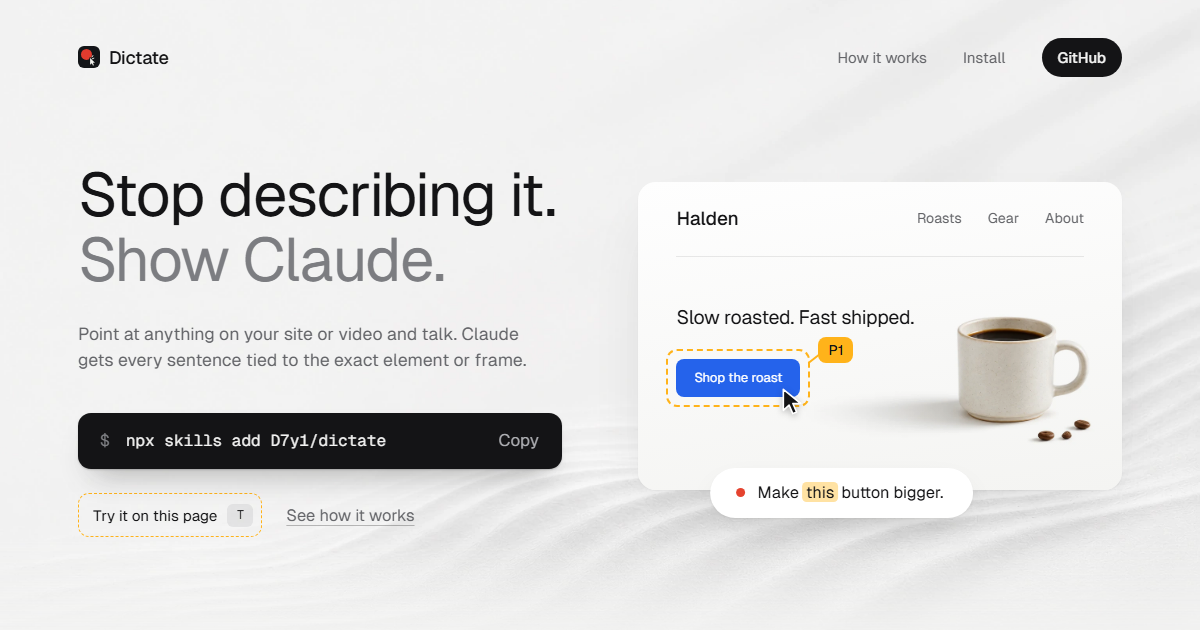
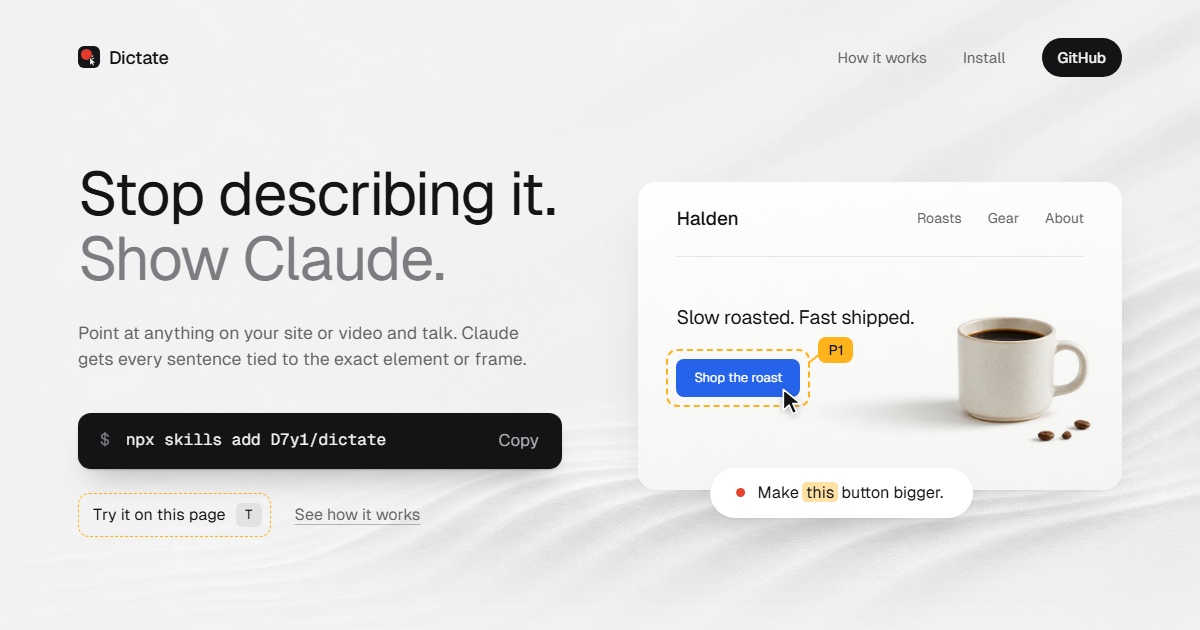
Polish the landing page before launch
Impeccable's final pass, with no new features.

- The wire measures the settled layout, so it lands on its line after a
  tab change.
- The 404 links from /dictate/ instead of a base tag, which sent its skip
  link to the home page.
- A refused clipboard selects the command and says how to copy it, without
  overflowing the bar on a phone.
- The Try button and tabs have their space before first paint, so a slow
  connection doesn't move the hero.
- The box's tag says what's true: "this" while a note is open, and no
  second tag on something already pinned.
- The mic reads results safely and doesn't call silence an error.
- Matching type in the hero row, larger touch targets, pressed states, and
  leftover CSS removed.

diff --git a/docs/assets/site.css b/docs/assets/site.css
@@ -68,7 +68,6 @@ h1 span, h2 span { display: block; color: var(--ink-3); }
 h1 { font-size: clamp(2.5rem, 5.1vw, 4.75rem); line-height: 1.06; letter-spacing: -0.025em; }
 h2 { font-size: clamp(2.125rem, 1.35rem + 2.8vw, 3.5rem); line-height: 1.08; letter-spacing: -0.032em; }
 h3 { font-size: 18px; font-weight: 500; line-height: 1.3; letter-spacing: -0.012em; }
-h3 code, h3 kbd { padding: 0.1em 0.36em; background: rgb(20 20 22 / 0.06); font-size: 0.9em; font-weight: 500; letter-spacing: 0; border-radius: 6px; }
 
 /* --- Navigation --- */
 
@@ -82,7 +81,7 @@ h3 code, h3 kbd { padding: 0.1em 0.36em; background: rgb(20 20 22 / 0.06); font-
 }
 .nav.scrolled { background: rgb(244 244 243 / 0.82); -webkit-backdrop-filter: saturate(1.4) blur(14px); backdrop-filter: saturate(1.4) blur(14px); border-bottom-color: var(--line); }
 .nav nav { display: flex; align-items: center; gap: clamp(16px, 3vw, 44px); }
-.nav nav a { color: var(--ink-2); text-decoration: none; transition: color 0.2s; }
+.nav nav a { padding-block: 10px; color: var(--ink-2); text-decoration: none; transition: color 0.2s; }
 .nav nav a:hover { color: var(--ink); }
 .nav nav a.pill { padding: 8px 16px; background: var(--ink); color: var(--ground); border-radius: 999px; font-weight: 500; transition: background-color 0.2s; }
 .nav nav a.pill:hover { background: #2c2c30; color: var(--ground); }
@@ -101,18 +100,20 @@ h3 code, h3 kbd { padding: 0.1em 0.36em; background: rgb(20 20 22 / 0.06); font-
 
 .pitch > p { max-width: 27em; margin-top: 28px; color: var(--ink-2); font-size: clamp(17px, 1.46vw, 21px); line-height: 1.5; text-wrap: pretty; }
 .pitch .install { margin-top: 40px; }
-.more-row { display: flex; flex-wrap: wrap; align-items: center; gap: 12px clamp(18px, 2vw, 28px); margin-top: 24px; transition: opacity 0.2s; }
+.more-row { display: flex; flex-wrap: wrap; align-items: center; gap: 4px clamp(18px, 2vw, 28px); margin-top: 24px; font-size: clamp(16px, 1.24vw, 18px); transition: opacity 0.2s; }
 .just-copied .more-row { opacity: 0; pointer-events: none; }
-.try { display: inline-flex; align-items: center; gap: 10px; min-height: 44px; padding: 6px 8px 6px 14px; border: 1.5px dashed var(--amber); border-radius: 11px; font-size: clamp(15px, 1.2vw, 18px); transition: background-color 0.2s; }
-.try[hidden] { display: none; }
+/* It only works with the script, and the page says so before first paint. */
+.try { display: none; align-items: center; gap: 10px; min-height: 44px; padding: 6px 8px 6px 14px; border: 1.5px dashed var(--amber); border-radius: 11px; transition: background-color 0.2s; }
+.js .try { display: inline-flex; }
 .try:hover { background: rgb(255 255 255 / 0.6); }
 .try[aria-pressed="true"] { background: var(--amber-soft); }
 .try kbd { min-width: 26px; padding: 2px 7px; background: rgb(20 20 22 / 0.07); font-size: 0.82em; text-align: center; border-radius: 6px; }
-.more { display: inline-block; color: var(--ink-2); font-size: clamp(16px, 1.36vw, 20px); text-decoration: underline; text-decoration-color: rgb(20 20 22 / 0.28); transition: color 0.2s, text-decoration-color 0.2s; }
+.more { display: inline-block; padding-block: 10px; color: var(--ink-2); text-decoration: underline; text-decoration-color: rgb(20 20 22 / 0.28); transition: color 0.2s, text-decoration-color 0.2s; }
 .more:hover { color: var(--ink); text-decoration-color: currentColor; }
 
 /* The install bar */
 .install {
+  position: relative;
   display: flex; align-items: center; justify-content: space-between; gap: 12px;
   width: 100%; max-width: 568px; height: clamp(56px, 4.5vw, 67px); padding: 0 10px 0 22px;
   background: var(--ink); color: var(--ground); border-radius: 13px;
@@ -127,7 +128,6 @@ h3 code, h3 kbd { padding: 0.1em 0.36em; background: rgb(20 20 22 / 0.06); font-
 .install button.copied { color: #fff; }
 
 /* What to do after Copy, in the space under the bar. */
-.install { position: relative; }
 .after-copy { position: absolute; left: 2px; top: calc(100% + 14px); color: var(--ink); font-size: 15px; line-height: 1.35; opacity: 0; transition: opacity 0.2s; pointer-events: none; }
 .after-copy.on { opacity: 1; transition-duration: 0.3s; }
 .after-copy code { padding: 0.08em 0.34em; background: rgb(20 20 22 / 0.07); font-size: 0.92em; border-radius: 5px; white-space: nowrap; }
@@ -234,6 +234,8 @@ h3 code, h3 kbd { padding: 0.1em 0.36em; background: rgb(20 20 22 / 0.06); font-
 
 .tabs { position: relative; display: flex; width: fit-content; margin-top: clamp(32px, 3.6vw, 48px); padding: 4px; background: rgb(20 20 22 / 0.055); border-radius: 999px; }
 .tabs[hidden] { display: none; }
+.js .tabs[hidden] { display: flex; }
+.js:not(.ready) .split:not(#panel-web) { display: none; }
 .tabs button { position: relative; padding: 9px 20px; color: var(--ink-2); font-size: 14.5px; border-radius: 999px; transition: color 0.2s; }
 .tabs button:hover, .tabs button[aria-selected="true"] { color: var(--ink); }
 .tab-thumb { position: absolute; left: 0; top: 4px; bottom: 4px; background: var(--surface); border-radius: 999px; box-shadow: 0 1px 2px rgb(20 20 22 / 0.08), 0 4px 10px -4px rgb(20 20 22 / 0.14); }
@@ -266,10 +268,9 @@ h3 code, h3 kbd { padding: 0.1em 0.36em; background: rgb(20 20 22 / 0.06); font-
 .timed.playing .w.said { opacity: 1; }
 .resolved { margin-top: clamp(24px, 3vw, 36px); }
 .resolved li + li { margin-top: 10px; }
-.resolved li { padding-left: 0; text-indent: 0; }
+.resolved li { padding-left: 0; text-indent: 0; transition: opacity 0.35s var(--ease), transform 0.35s var(--ease); }
 .resolved li::before { content: none; }
 .resolved.playing li { opacity: 0; transform: translateY(4px); }
-.resolved li { transition: opacity 0.35s var(--ease), transform 0.35s var(--ease); }
 .resolved.playing li.said { opacity: 1; transform: none; }
 .replay { padding: 0; color: var(--ink); text-decoration: underline; text-decoration-color: rgb(20 20 22 / 0.28); text-decoration-thickness: 1px; text-underline-offset: 4px; transition: text-decoration-color 0.2s; }
 .replay:hover { text-decoration-color: currentColor; }
@@ -310,7 +311,7 @@ html:not(.trying) .tp-box, html:not(.trying) .tp-pin { display: none; }
 .tp {
   position: fixed; right: clamp(12px, 2vw, 28px); bottom: calc(clamp(12px, 2vw, 28px) + var(--tp-lift, 0px)); z-index: 40;
   display: flex; flex-direction: column;
-  width: min(460px, 100vw - 24px); max-height: min(72svh, 620px);
+  width: min(460px, 100vw - 24px); max-height: var(--tp-room, min(72svh, 620px));
   background: var(--surface); border-radius: 18px;
   box-shadow: 0 0 0 1px rgb(20 20 22 / 0.05), 0 1px 2px rgb(20 20 22 / 0.05), 0 30px 60px -18px rgb(20 20 22 / 0.3);
   transition: opacity 0.16s, transform 0.16s;
@@ -324,9 +325,8 @@ html:not(.trying) .tp-box, html:not(.trying) .tp-pin { display: none; }
 .tp-hint { flex: 1; min-width: 0; font-size: 15px; line-height: 1.35; }
 .tp-close { display: grid; place-items: center; flex: none; width: 40px; height: 40px; color: var(--ink-2); border-radius: 10px; transition: color 0.2s, background-color 0.2s; }
 .tp-close:hover { color: var(--ink); background: rgb(20 20 22 / 0.05); }
-.tp-report { flex: 1 1 auto; min-height: 0; padding: 14px 20px 16px; border-top: 1px solid var(--line); font-size: 12.5px; line-height: 1.65; overflow-y: auto; overscroll-behavior: contain; }
+.tp-report { flex: 1 1 auto; min-height: 0; padding: 14px 20px 16px; border-top: 1px solid var(--line); font-size: 12.5px; line-height: 1.65; overflow-y: auto; overscroll-behavior: contain; scrollbar-width: thin; }
 .tp-report[hidden] { display: none; }
-.tp-report .draft { margin-top: 0; }
 .tp-report .tp-note + .tp-note { margin-top: 20px; padding-top: 16px; border-top: 1px solid var(--line); }
 .tp-report .tp-note > * + * { margin-top: 0.9em; }
 .tp-report .q:empty::after { content: "> …"; color: var(--ink-2); }
@@ -350,15 +350,19 @@ html:not(.trying) .tp-box, html:not(.trying) .tp-pin { display: none; }
 .tp-foot { flex: none; display: flex; flex-wrap: wrap; align-items: center; gap: 10px 16px; padding: 12px 20px 16px; border-top: 1px solid var(--line); }
 .tp-foot[hidden] { display: none; }
 .tp-foot .tp-small { width: 100%; }
-.tp-copy { height: 38px; padding: 0 14px; background: var(--ink); color: var(--ground); font-size: 14px; font-weight: 500; border-radius: 9px; transition: background-color 0.2s; }
+.tp-copy { height: 40px; padding: 0 14px; background: var(--ink); color: var(--ground); font-size: 14px; font-weight: 500; border-radius: 9px; transition: background-color 0.2s; }
 .tp-copy:hover { background: #2c2c30; }
-.tp-install { font-size: 14px; }
+.tp-install { font-size: 14px; text-decoration-color: rgb(20 20 22 / 0.28); transition: text-decoration-color 0.2s; }
+.tp-install:hover { text-decoration-color: currentColor; }
+
+/* Everything you press gives a little. */
+.install button:active, .try:active, .tabs button:active, .tp-close:active, .tp-mic:active, .tp-add:active, .tp-copy:active, .nav nav a.pill:active, .replay:active { transform: scale(0.97); }
 
 /* --- The missing page --- */
 
 .lost { text-align: center; }
 .lost h1 { white-space: normal; font-size: clamp(2.25rem, 5.1vw, 4.75rem); }
-.lost .more { margin-top: 28px; }
+.lost .more { margin-top: 18px; font-size: 17px; }
 .lost-box { position: relative; width: min(420px, 100%); height: clamp(170px, 24vh, 240px); margin: 0 auto clamp(72px, 9vh, 96px); }
 .lost-box .pin { inset: 0; width: auto; height: auto; }
 .lost-box .pin-tag { left: auto; right: 8px; bottom: calc(100% + 8px); }
@@ -394,7 +398,6 @@ html:not(.trying) .tp-box, html:not(.trying) .tp-pin { display: none; }
   .install { height: 62px; }
   .install code { font-size: clamp(12px, 3.6vw, 18px); }
   .install button { font-size: 16px; }
-  .more { font-size: 17px; }
   .hero { min-height: 0; padding-block: calc(var(--nav-h) + 40px) 96px; }
   .hero-grid { grid-template-columns: minmax(0, 1fr); gap: 64px; }
   .demo { justify-self: center; }
@@ -426,14 +429,16 @@ html:not(.trying) .tp-box, html:not(.trying) .tp-pin { display: none; }
   .tabs { width: 100%; }
   .tabs button { flex: 1; padding-inline: 8px; }
   .shot .pin-tag { font-size: 11.5px; padding: 2px 6px; }
-  .tp { right: 8px; bottom: calc(8px + var(--tp-lift, 0px)); width: calc(100vw - 16px); max-height: 62svh; }
+  .tp { right: 8px; bottom: calc(8px + var(--tp-lift, 0px)); width: calc(100vw - 16px); max-height: var(--tp-room, 62svh); }
   .after-copy { font-size: 14px; }
-  .try { font-size: 15px; }
-  .more { font-size: 15px; }
 }
 
 @media (max-width: 350px) {
   .install .prompt { display: none; }
+}
+
+@media (max-height: 520px) {
+  .tp-foot .tp-small { display: none; }
 }
 
 /* No T key on a touch screen. */

diff --git a/docs/assets/site.js b/docs/assets/site.js
@@ -5,6 +5,9 @@ const $$ = (selector, root = document) => [...root.querySelectorAll(selector)];
 const calm = matchMedia('(prefers-reduced-motion: reduce)');
 const wide = matchMedia('(min-width: 981px)');
 const touch = matchMedia('(hover: none)');
+const copyHint = touch.matches
+  ? 'It’s selected. Copy it from the menu.'
+  : `Press ${/Mac|iP/.test(navigator.platform) ? 'Cmd' : 'Ctrl'}+C to copy it.`;
 
 // While you're trying it on this page, everything else on the page holds still.
 let trying = false;
@@ -38,20 +41,21 @@ for (const button of $$('[data-copy]')) {
       button.classList.add('copied');
       // The next step, where you're already looking.
       after.innerHTML = 'Now run it, then type <code>/dictate</code> in Claude Code.';
-      after.classList.add('on');
-      if (pitch) {
-        pitch.classList.add('just-copied');
-        heroLeaveTry();
-      }
-      noteTimer = setTimeout(() => {
-        after.classList.remove('on');
-        pitch?.classList.remove('just-copied');
-      }, 7000);
     } catch {
-      // No clipboard access: select the command so Ctrl+C works.
+      // No clipboard access: select the command and say how to copy it. The button keeps its
+      // label, because a longer one doesn't fit the bar on a phone.
       getSelection().selectAllChildren($('code', button.parentElement));
-      button.textContent = 'Press Ctrl+C';
+      after.textContent = copyHint;
     }
+    after.classList.add('on');
+    if (pitch) {
+      pitch.classList.add('just-copied');
+      heroLeaveTry();
+    }
+    noteTimer = setTimeout(() => {
+      after.classList.remove('on');
+      pitch?.classList.remove('just-copied');
+    }, 7000);
     timer = setTimeout(() => {
       button.textContent = 'Copy';
       button.classList.remove('copied');
@@ -258,15 +262,19 @@ if (tabs.length) {
       other.tabIndex = on ? 0 : -1;
       const panel = panelOf(other);
       panel.hidden = !on;
-      panel.classList.toggle('enter', on);
+      panel.classList.remove('enter');
     }
     moveThumb();
+    // Measure before the lines start moving, or the wire lands where they were mid-entrance.
     draw(panelOf(tab));
+    panelOf(tab).classList.add('enter');
     if (focus) tab.focus();
   }
 
   tablist.hidden = false;
   for (const tab of tabs) panelOf(tab).hidden = tab !== tabs[0];
+  document.documentElement.classList.add('ready');
+  moveThumb();
 
   tabs.forEach((tab, i) => {
     tab.addEventListener('click', () => select(tab));
@@ -421,6 +429,7 @@ if (panel) {
   const copyButton = $('#tp-copy');
   const closeButton = $('#tp-close');
   const installLink = $('#tp-install');
+  const hoverTag = $('.pin-tag', hoverBox);
 
   const MEANINGFUL = 'a,button,input,select,textarea,label,img,video,picture,h1,h2,h3,h4,h5,h6,p,li,td,th,summary,figure,nav,header,footer,[role],[data-testid],[aria-label]';
   const HASHY = /^(css|sc|jsx|emotion|svelte|tw)-[a-z0-9]{4,}$|^[a-z]{1,3}[A-Za-z0-9_-]{5,}$/;
@@ -709,6 +718,9 @@ if (panel) {
       hoverBox.classList.remove('on');
       return;
     }
+    // While a note is open, the box shows where "this" would land. T is for typing then.
+    hoverTag.textContent = state === 'noting' ? 'this' : 'Press T';
+    hoverTag.hidden = state !== 'noting' && pinned.some((p) => p.el === el);
     place(hoverBox, el);
     if (!hoverBox.classList.contains('on')) {
       // First appearance lands in place rather than flying in from the last one.
@@ -742,6 +754,8 @@ if (panel) {
     form.hidden = true;
     say(armedHint());
     render();
+    // The page may have changed while this was closed.
+    requestSync();
   }
 
   function exit() {
@@ -812,7 +826,7 @@ if (panel) {
     changed();
     if (!draft.text) {
       say('Type what you want first, or press Esc.');
-      input.focus();
+      input.focus({ preventScroll: true });
       return;
     }
     notes.push(draft);
@@ -863,15 +877,15 @@ if (panel) {
     if (navigator.language) rec.lang = navigator.language;
     const before = input.value.trim();
     rec.onresult = (e) => {
-      const heard = [...e.results].map((r) => r[0].transcript).join(' ').replace(/\s+/g, ' ').trim();
+      const heard = Array.from(e.results, (r) => r[0].transcript).join(' ').replace(/\s+/g, ' ').trim();
       input.value = before ? `${before} ${heard}` : heard;
       draft.spoken = true;
       changed();
     };
-    rec.onerror = () => {
+    rec.onerror = (e) => {
       stopMic();
-      say('The mic isn’t available here. Type it instead.');
-      input.focus();
+      say(e.error === 'no-speech' ? 'Nothing heard. Press the mic again, or type it.' : 'The mic isn’t available here. Type it instead.');
+      input.focus({ preventScroll: true });
     };
     rec.onend = () => {
       if (listening !== rec) return;
@@ -891,7 +905,6 @@ if (panel) {
 
   // ---------- input ----------
 
-  tryButton.hidden = false;
   tryButton.addEventListener('click', () => {
     if (state === 'off') arm();
     else exit();
@@ -917,7 +930,8 @@ if (panel) {
       copyButton.textContent = 'Copied';
     } catch {
       getSelection().selectAllChildren(reportEl);
-      copyButton.textContent = 'Press Ctrl+C';
+      copyButton.textContent = 'Selected';
+      say(copyHint);
     }
     setTimeout(() => { copyButton.textContent = 'Copy report'; }, 1800);
   });
@@ -998,9 +1012,16 @@ if (panel) {
     else input.focus({ preventScroll: true });
   });
 
-  // On a phone, ride above the keyboard.
-  visualViewport?.addEventListener('resize', () => {
-    const lift = Math.max(0, innerHeight - visualViewport.height - visualViewport.offsetTop);
+  // On a phone, ride above the keyboard, leave room for the page, and keep the pin in sight.
+  const vv = window.visualViewport;
+  const ride = () => {
+    const lift = Math.max(0, innerHeight - vv.height - vv.offsetTop);
     panel.style.setProperty('--tp-lift', `${lift}px`);
+    panel.style.setProperty('--tp-room', lift ? `${Math.round(vv.height * 0.72)}px` : '');
+    return lift;
+  };
+  vv?.addEventListener('scroll', ride);
+  vv?.addEventListener('resize', () => {
+    if (ride() && draft) keepInSight(draft.pins.at(-1).el);
   });
 }

diff --git a/docs/404.html b/docs/404.html
@@ -6,26 +6,25 @@
 <title>Nothing here · Dictate</title>
 <meta name="robots" content="noindex">
 <meta name="theme-color" content="#f4f4f3">
-<!-- GitHub Pages serves this at any missing path, so every link starts from the site's root. -->
-<base href="/dictate/">
-<link rel="icon" type="image/svg+xml" href="assets/icon.svg">
-<link rel="stylesheet" href="assets/site.css">
-<script type="module" src="assets/site.js"></script>
+<!-- GitHub Pages serves this at any missing path, so every link starts from the root. -->
+<link rel="icon" type="image/svg+xml" href="/dictate/assets/icon.svg">
+<link rel="stylesheet" href="/dictate/assets/site.css">
+<script type="module" src="/dictate/assets/site.js"></script>
 </head>
 <body>
 <a class="skip" href="#main">Skip to content</a>
 
 <header class="nav" id="nav">
-  <a class="brand" href="./"><img src="assets/icon.svg" width="22" height="22" alt=""><span>Dictate</span></a>
+  <a class="brand" href="/dictate/"><img src="/dictate/assets/icon.svg" width="22" height="22" alt=""><span>Dictate</span></a>
   <nav aria-label="Sections">
-    <a href="./#install">Install</a>
+    <a href="/dictate/#install">Install</a>
     <a class="pill" href="https://github.com/D7y1/dictate">GitHub</a>
   </nav>
 </header>
 
 <main id="main">
   <section class="hero lost" aria-labelledby="lost-title">
-    <img class="sand" src="assets/sand.webp" width="1536" height="1024" alt="" decoding="async">
+    <img class="sand" src="/dictate/assets/sand.webp" width="1536" height="1024" alt="" decoding="async">
     <div class="wrap">
       <div class="lost-box" aria-hidden="true">
         <div class="pin on"><span class="pin-tag">P1</span></div>
@@ -33,7 +32,7 @@
         <p class="say"><span class="rec"></span><span class="say-text">Make <mark>this</mark> page exist.</span></p>
       </div>
       <h1 id="lost-title">Nothing here. <span>But you can point at it.</span></h1>
-      <a class="more" href="./">Back to Dictate</a>
+      <a class="more" href="/dictate/">Back to Dictate</a>
     </div>
   </section>
 </main>

diff --git a/docs/index.html b/docs/index.html
@@ -24,6 +24,8 @@
 <meta name="twitter:image" content="https://skills.d7y.dev/dictate/assets/og.png">
 <link rel="preload" href="assets/fonts/Geist-Variable.woff2" as="font" type="font/woff2" crossorigin>
 <link rel="stylesheet" href="assets/site.css">
+<!-- Before first paint, so what the script adds has its space from the start. -->
+<script>document.documentElement.classList.add('js')</script>
 <script type="module" src="assets/site.js"></script>
 </head>
 <body>
@@ -61,7 +63,7 @@ DELIGHT: Whatever you point at, Dictate knows exactly what you mean. One dashed 
           <span class="after-copy" role="status"></span>
         </div>
         <div class="more-row">
-          <button type="button" class="try" id="try" aria-pressed="false" data-say="Press T and try this yourself." data-cursor="0.8 0.76" data-tag="under" hidden>Try it on this page<kbd>T</kbd></button>
+          <button type="button" class="try" id="try" aria-pressed="false" aria-keyshortcuts="T" data-say="Press T and try this yourself." data-cursor="0.8 0.76" data-tag="under">Try it on this page<kbd aria-hidden="true">T</kbd></button>
           <a class="more" href="#how">See how it works</a>
         </div>
       </div>

diff --git a/.impeccable/surfaces/docs-index-html.md b/.impeccable/surfaces/docs-index-html.md
@@ -42,7 +42,8 @@ DESIGN.md describes the studio, a dark tool. It does not bind this surface, and 
 - No third-party requests from the page: fonts and images are self-hosted, and the privacy page says so. The Try panel's mic is off until pressed, then the browser's own speech service hears it. The panel discloses that before you press it, and the privacy page covers it.
 - The privacy page is linked from the Chrome Web Store listing, so keep it accurate to what the extension, studio, first-run setup and Try panel do.
 - No invented claims: no stars, testimonials, logos or numbers. Halden, the Dashboard concept reference and the transcript timings are labeled-by-context examples. The Try panel says a real report also has a screenshot of each pin.
-- Domain: `D7y1/D7y1.github.io` owns `skills.d7y.dev`, so this repo's Pages site is served at `/dictate`, and `404.html` uses `<base href="/dictate/">`. Later skills live at `/their-name`.
+- Domain: `D7y1/D7y1.github.io` owns `skills.d7y.dev`, so this repo's Pages site is served at `/dictate`, and every link in `404.html` starts from `/dictate/`. Later skills live at `/their-name`.
+- T is a page-wide single-key shortcut, a narrow intentional exception: it's the product's own gesture, nothing it does is destructive, and Esc leaves.
 
 ## Open
 - `docs/assets/og.png` is captured from the built hero; recapture it if the hero changes.
